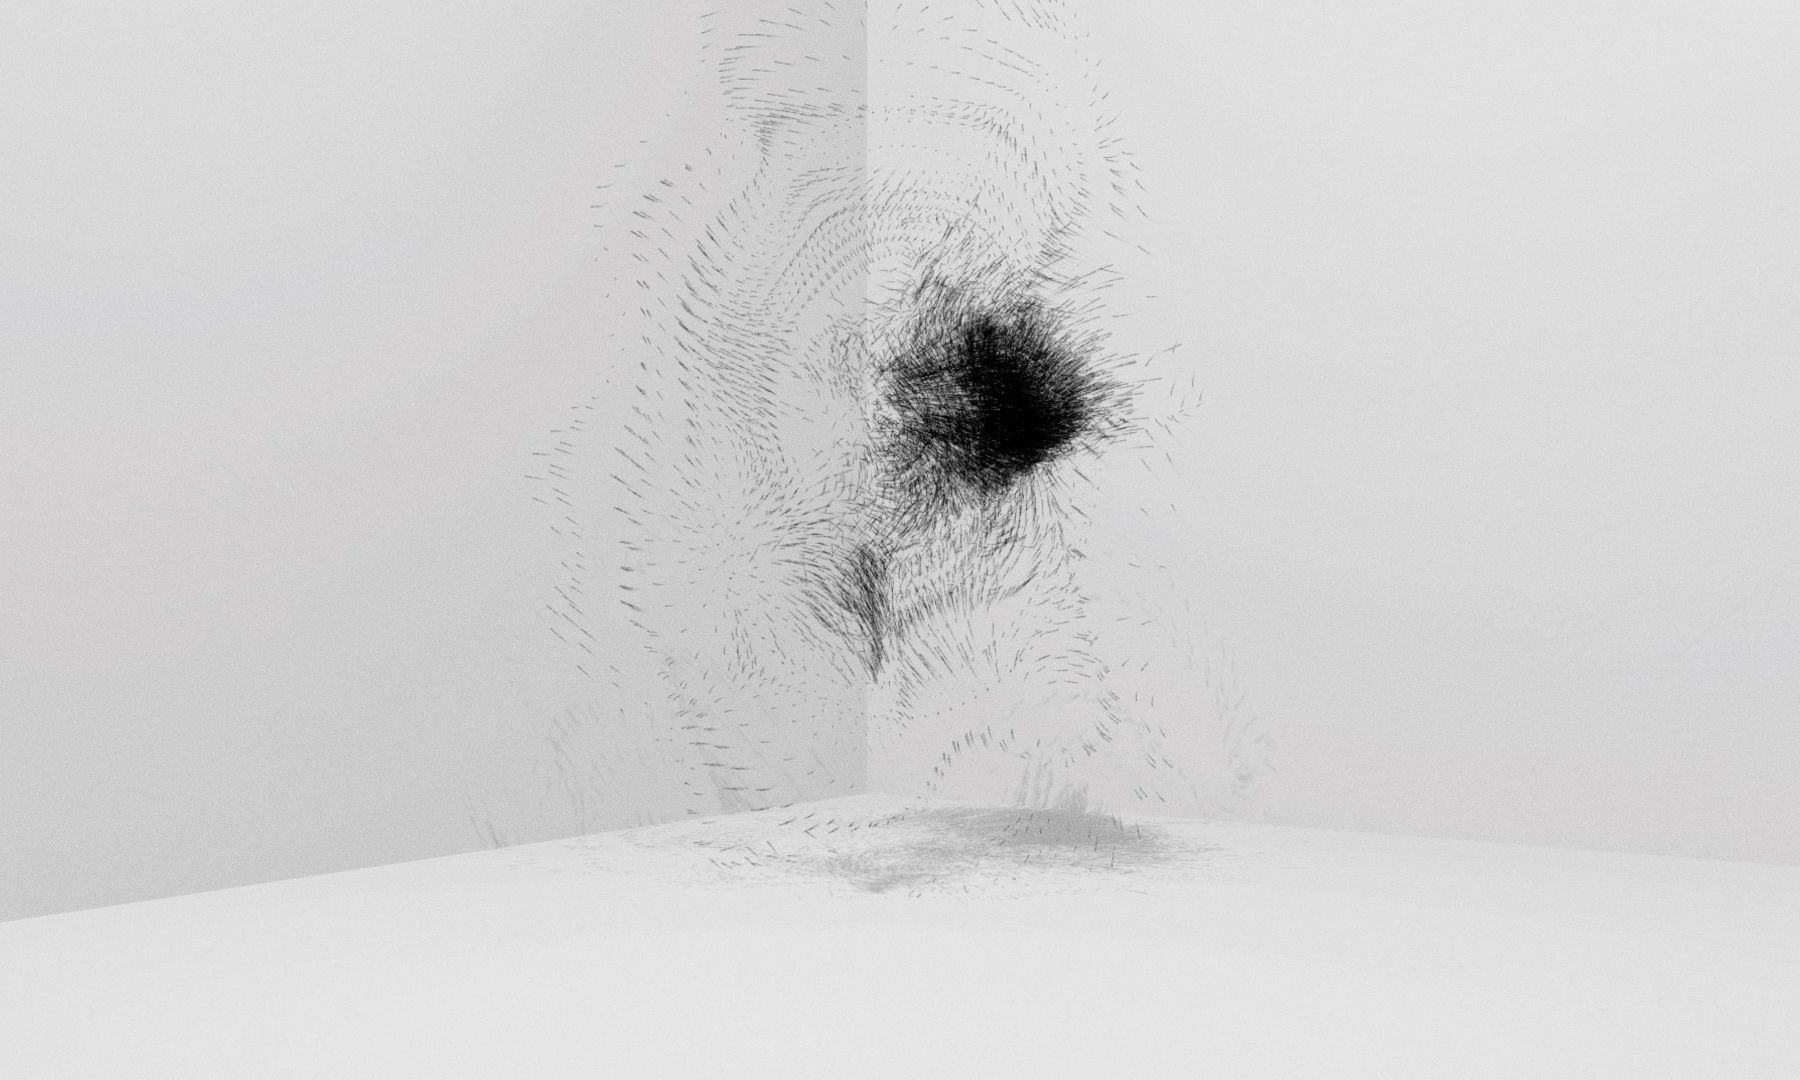
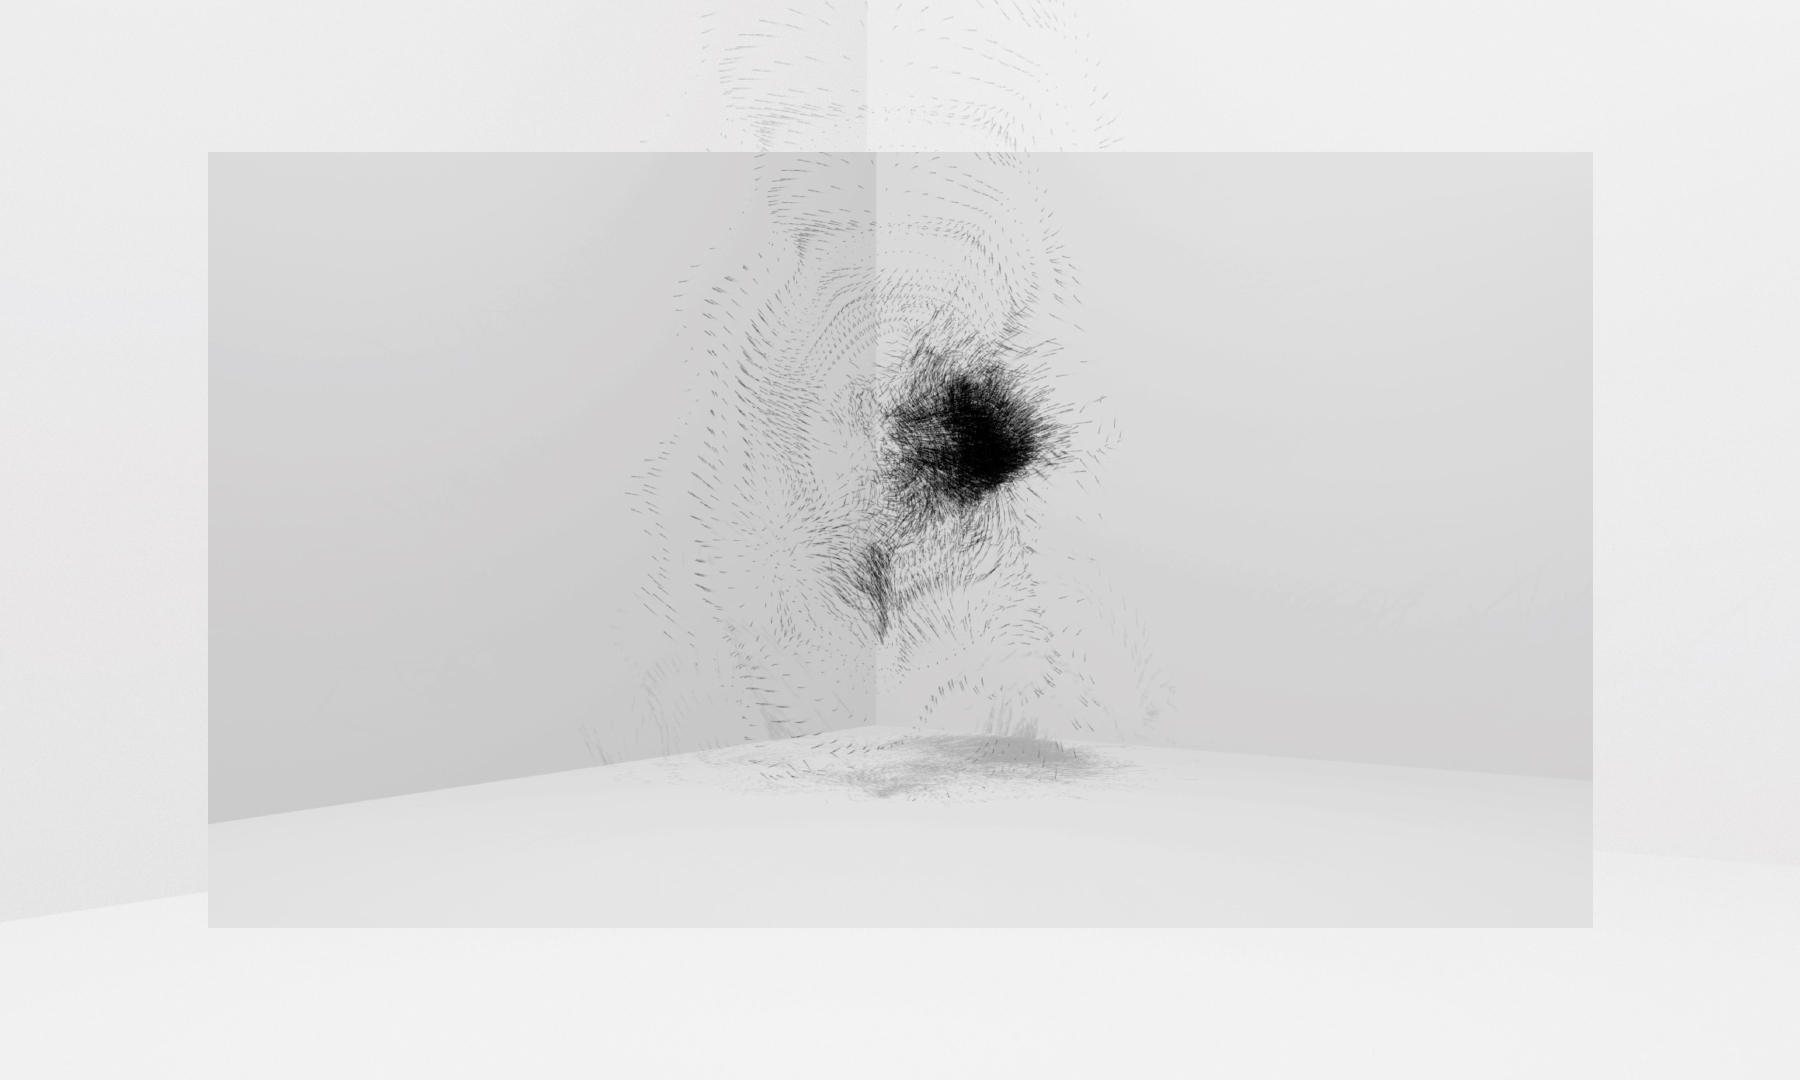
V134

diff --git a/public/js/slideshow.js b/public/js/slideshow.js
@@ -32,8 +32,8 @@ var slideshow = (function(window, undefined) {
     selector: '.prism-slider',
     element: null,
     sizes: {
-      w: 1200,
-      h: 500
+      w: 1800,
+      h: 1080
     }
   };
 
@@ -42,10 +42,8 @@ var slideshow = (function(window, undefined) {
    * @type {Array}
    */
   var slides = [
-    '/images/carousel-1.jpg',
-    '/images/carousel-2.jpg',
-    '/images/carousel-3.jpg',
-    '/images/carousel-4.jpg'
+    '/images/disappear-here-header.jpg',
+    '/images/disappear-here-header.jpg'
   ];
 
   /**
@@ -54,17 +52,10 @@ var slideshow = (function(window, undefined) {
    */
   var masks = [
     {
-      source: '/images/masks/sidechain-logo-1.svg',
+      source: '/images/masks/DH_Logo_Master.svg',
       effects: {
         flip: 'Y',
-        rotate: -60 // degrees
-      }
-    },
-    {
-      source: '/images/masks/sidechain-logo-2.svg',
-      effects: {
-        flip: 'X',
-        rotate: -40 // degrees
+        rotate: -45 // degrees
       }
     }
   ];

diff --git a/public/js/particleBoard.js b/public/js/particleBoard.js
@@ -14,7 +14,7 @@
 
 /* ---- SETTINGS ---- */
 var numberParticlesStart = 500;
-var particleSpeed = 0.3;
+var particleSpeed = 0.8;
 var velocity = 0.6;
 var reactangleWidth = 90;
 var reactangleHeight = 90;
